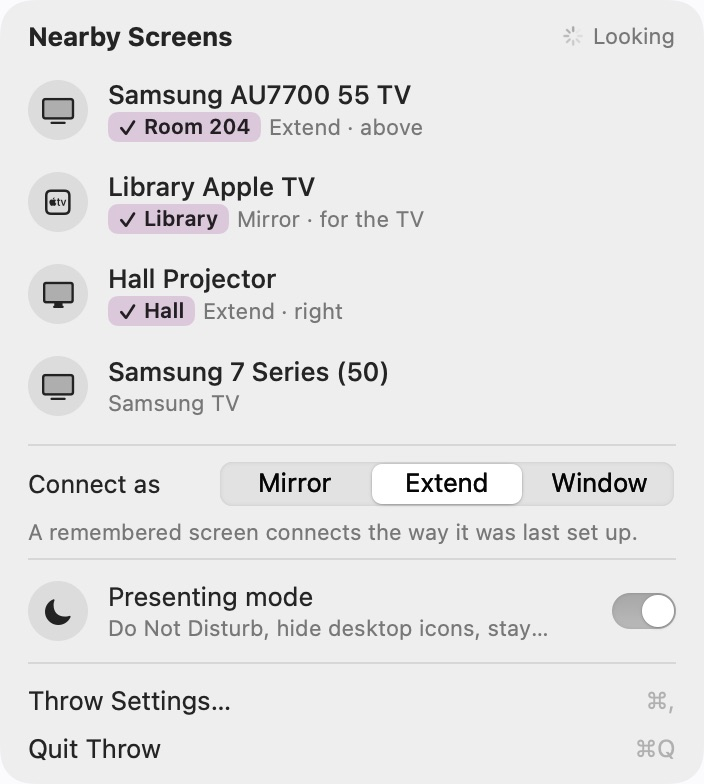
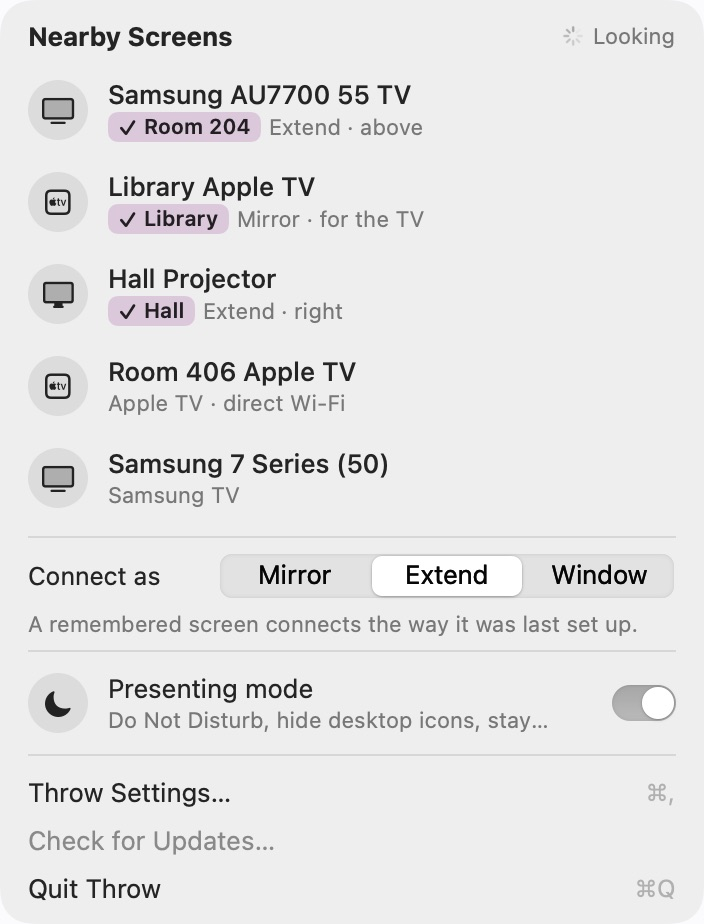
Publish Throw 1.1.0

diff --git a/apps/throw/index.html b/apps/throw/index.html
@@ -4,9 +4,9 @@
 <meta charset="utf-8">
 <meta name="viewport" content="width=device-width, initial-scale=1">
 <title>Throw · ExplAIn Sims · Mac apps</title>
-<meta name="description" content="Connect to nearby TVs as a mirror, an extra screen or a window, drag the TV around an arrangement map, pick a resolution, and remember each room.">
+<meta name="description" content="Connect to nearby TVs, and to Apple TVs over direct Wi-Fi where the network keeps them apart, as a mirror, an extra screen or a window. Drag the TV around an arrangement map, pick a resolution, and remember each room.">
 <meta property="og:title" content="Throw · ExplAIn Sims · Mac apps">
-<meta property="og:description" content="Connect to nearby TVs as a mirror, an extra screen or a window, drag the TV around an arrangement map, pick a resolution, and remember each room.">
+<meta property="og:description" content="Connect to nearby TVs, and to Apple TVs over direct Wi-Fi where the network keeps them apart, as a mirror, an extra screen or a window. Drag the TV around an arrangement map, pick a resolution, and remember each room.">
 <meta property="og:url" content="https://store.explainsims.com/apps/throw/">
 <meta property="og:type" content="website">
 <meta property="og:image" content="https://store.explainsims.com/shots/throw/1-light.jpg">
@@ -100,14 +100,14 @@ dialog.fb::backdrop{background:rgba(0,0,0,.32)}
   <a class="back" href="../../#apps">&#8249; All apps</a>
   <header class="apphead"><img class="icon" src="../../icons/throw.png" alt="" width="128" height="128">
     <div><h1>Throw</h1>
-    <p class="sum">Connect to nearby TVs as a mirror, an extra screen or a window, drag the TV around an arrangement map, pick a resolution, and remember each room.</p>
+    <p class="sum">Connect to nearby TVs, and to Apple TVs over direct Wi-Fi where the network keeps them apart, as a mirror, an extra screen or a window. Drag the TV around an arrangement map, pick a resolution, and remember each room.</p>
     
-    <div class="acts"><a class="btn primary big" href="https://github.com/explainsims/store/releases/download/throw-1.0.3/Throw-1.0.3.zip">Download</a><small>1.0.3 · 3.1 MB · free</small><a href="#feedback"><svg width="14" height="14" viewBox="0 0 15 15" fill="none" stroke="currentColor" stroke-width="1.4" stroke-linejoin="round" aria-hidden="true"><path d="M2.2 3.6c0-.9.7-1.6 1.6-1.6h7.4c.9 0 1.6.7 1.6 1.6v5.2c0 .9-.7 1.6-1.6 1.6H6.4L3.6 12.8v-2.4c-.8 0-1.4-.7-1.4-1.6z"/></svg>Send Feedback</a></div>
+    <div class="acts"><a class="btn primary big" href="https://github.com/explainsims/store/releases/download/throw-1.1.0/Throw-1.1.0.zip">Download</a><small>1.1.0 · 3.2 MB · free</small><a href="#feedback"><svg width="14" height="14" viewBox="0 0 15 15" fill="none" stroke="currentColor" stroke-width="1.4" stroke-linejoin="round" aria-hidden="true"><path d="M2.2 3.6c0-.9.7-1.6 1.6-1.6h7.4c.9 0 1.6.7 1.6 1.6v5.2c0 .9-.7 1.6-1.6 1.6H6.4L3.6 12.8v-2.4c-.8 0-1.4-.7-1.4-1.6z"/></svg>Send Feedback</a></div>
     <p class="tip">Or get <a href="../../apps/storefront/">Storefront</a>: it installs Throw in one click, skips the Open Anyway step, and keeps it up to date.</p></div>
   </header>
   <section class="facts" aria-label="Facts">
-    <div><small>Version</small><b>1.0.3</b><i>latest</i></div>
-    <div><small>Size</small><b>3.1 MB</b><i>download</i></div>
+    <div><small>Version</small><b>1.1.0</b><i>latest</i></div>
+    <div><small>Size</small><b>3.2 MB</b><i>download</i></div>
     <div><small>Needs</small><b>macOS 14</b><i>or later</i></div>
     <div><small>Chip</small><b>Any Mac</b><i>Apple silicon and Intel</i></div>
     <div><small>Updated</small><b>9 Nov</b><i>2026</i></div>
@@ -118,7 +118,7 @@ dialog.fb::backdrop{background:rgba(0,0,0,.32)}
 </section>
 <dialog class="lightbox" aria-label="Screenshot"><img alt=""><button type="button" class="lb prev" aria-label="Previous">&#8249;</button><button type="button" class="lb next" aria-label="Next">&#8250;</button><button type="button" class="lb x" aria-label="Close">&times;</button></dialog>
   <section class="cols">
-    <div><h2>What's new in 1.0.3</h2><ul><li>Check for Updates… in Throw's menu, above Quit. From now on Throw updates itself, checking once a day.</li></ul></div>
+    <div><h2>What's new in 1.1.0</h2><ul><li>Finds Apple TVs close by the way Screen Mirroring does, even on school networks that keep them apart (over direct Wi-Fi), and connects to them reliably. If Control Center doesn't list a screen, Throw tries System Settings › Displays.</li></ul></div>
     <div><h2>Good to know</h2><dl class="kv"><dt>Read Me</dt><dd><a href="../../readme/throw.txt">How to use Throw</a></dd><dt>First open</dt><dd>macOS asks you to allow it once, under System Settings › Privacy &amp; Security › Open Anyway. Apps installed through Storefront skip that.</dd></dl></div>
   </section>
   <section class="fbcard" id="feedback"><div class="fbtop"><h2>Send feedback about Throw</h2><span class="priv"><svg width="12" height="12" viewBox="0 0 12 12" fill="none" stroke="currentColor" stroke-width="1.5" aria-hidden="true"><rect x="2" y="5.2" width="8" height="5.6" rx="1.4"/><path d="M3.8 5.2V3.8a2.2 2.2 0 0 1 4.4 0v1.4"/></svg>Private and anonymous</span></div>

diff --git a/index.html b/index.html
@@ -134,9 +134,9 @@ dialog.fb::backdrop{background:rgba(0,0,0,.32)}
 <article class="app" id="smartcut" data-kind="menubar" data-text="smartcut hold ⌘ to see every shortcut in the app you're using. hold ⌘ and a panel lists the front app's keyboard shortcuts, including google docs, sheets, slides and gmail in your browser. type to filter, and find hotkeys that clash. cheatsheet menu bar"><img class="icon" src="icons/smartcut.png" alt="" width="64" height="64" loading="lazy">
   <div class="t"><h3><a class="cover" href="apps/smartcut/">SmartCut</a></h3><p class="tag">Hold ⌘ to see every shortcut in the app you're using.</p><small>1.0.1 · 2.1 MB</small></div>
   <a class="btn get" href="https://github.com/explainsims/store/releases/download/smartcut-1.0.1/SmartCut-1.0.1.zip" aria-label="Download SmartCut">Download</a></article>
-<article class="app" id="throw" data-kind="menubar" data-text="throw airplay to tvs from the menu bar, then arrange them. connect to nearby tvs as a mirror, an extra screen or a window, drag the tv around an arrangement map, pick a resolution, and remember each room.  menu bar"><img class="icon" src="icons/throw.png" alt="" width="64" height="64" loading="lazy">
-  <div class="t"><h3><a class="cover" href="apps/throw/">Throw</a></h3><p class="tag">AirPlay to TVs from the menu bar, then arrange them.</p><small>1.0.3 · 3.1 MB</small></div>
-  <a class="btn get" href="https://github.com/explainsims/store/releases/download/throw-1.0.3/Throw-1.0.3.zip" aria-label="Download Throw">Download</a></article>
+<article class="app" id="throw" data-kind="menubar" data-text="throw airplay to tvs from the menu bar, then arrange them. connect to nearby tvs, and to apple tvs over direct wi-fi where the network keeps them apart, as a mirror, an extra screen or a window. drag the tv around an arrangement map, pick a resolution, and remember each room.  menu bar"><img class="icon" src="icons/throw.png" alt="" width="64" height="64" loading="lazy">
+  <div class="t"><h3><a class="cover" href="apps/throw/">Throw</a></h3><p class="tag">AirPlay to TVs from the menu bar, then arrange them.</p><small>1.1.0 · 3.2 MB</small></div>
+  <a class="btn get" href="https://github.com/explainsims/store/releases/download/throw-1.1.0/Throw-1.1.0.zip" aria-label="Download Throw">Download</a></article>
 <article class="app" id="tuck" data-kind="menubar" data-text="tuck tidy the menu bar. tuck icons away behind an arrow. choose which apps' icons to tuck away; the arrow (click, hover or a shortcut) shows everything for a moment. search opens any icon's menu. needs macos 27. bartender menu bar"><img class="icon" src="icons/tuck.png" alt="" width="64" height="64" loading="lazy">
   <div class="t"><h3><a class="cover" href="apps/tuck/">Tuck</a></h3><p class="tag">Tidy the menu bar. Tuck icons away behind an arrow.</p><small>1.1.2 · 1.8 MB</small></div>
   <a class="btn get" href="https://github.com/explainsims/store/releases/download/tuck-1.1.2/Tuck-1.1.2.zip" aria-label="Download Tuck">Download</a></article>
